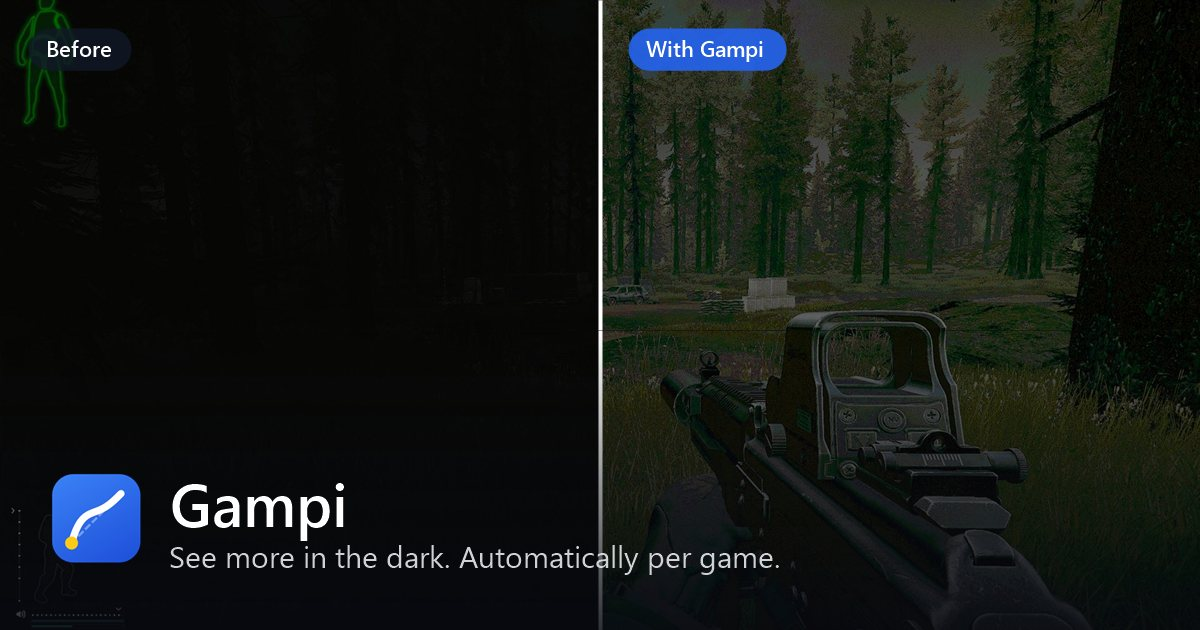
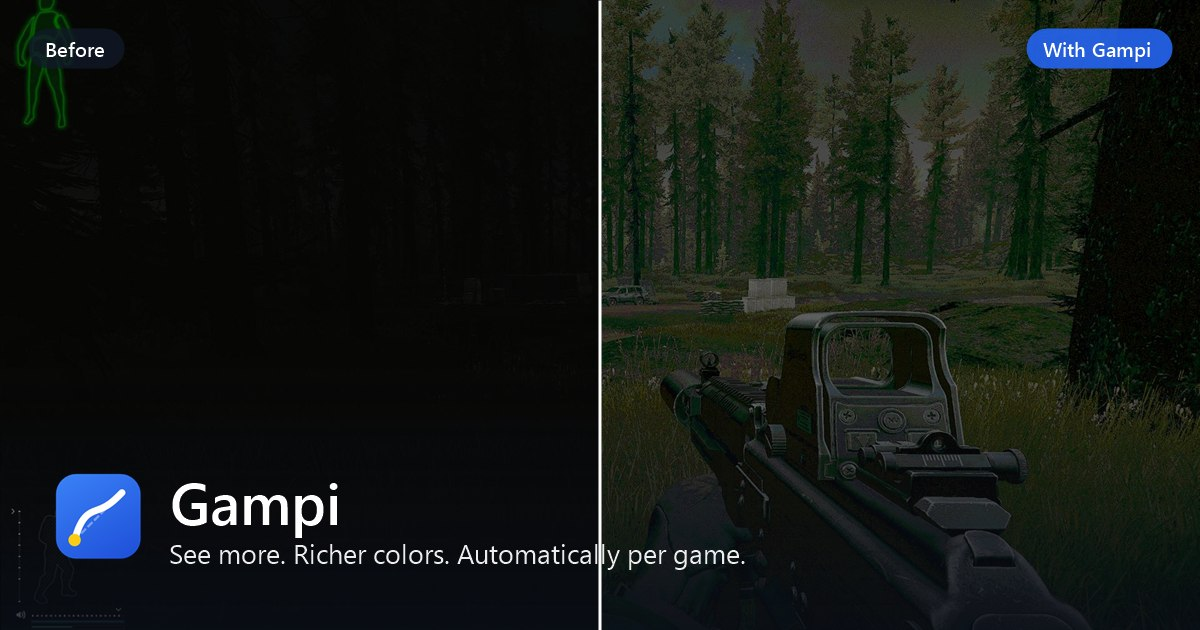
SEO: Sitemap, vollständige Bildadressen fürs Teilen, neues Vorschaubild
sitemap.xml und Verweis in robots.txt; canonical, og:url, og:image/twitter:image mit voller Adresse; ld+json um url, downloadUrl und image ergänzt; og-image.jpg mit aktuellem Slogan.

diff --git a/index.html b/index.html
@@ -13,10 +13,15 @@
   <meta property="og:site_name" content="Gampi">
   <meta property="og:title" content="Gampi – See more. Richer colors. Automatically per game.">
   <meta property="og:description" content="Gampi tunes your monitor's gamma, contrast and colors for each game and switches automatically when the game starts. Free for Windows.">
-  <meta property="og:image" content="assets/img/og-image.jpg">
+  <link rel="canonical" href="https://wussatier.github.io/gampi/">
+  <meta property="og:url" content="https://wussatier.github.io/gampi/">
+  <!-- Vollständige Adresse: Discord, Reddit & Co. laden relative Bildpfade nicht -->
+  <meta property="og:image" content="https://wussatier.github.io/gampi/assets/img/og-image.jpg">
+  <meta property="og:image:alt" content="Gampi – vorher/nachher in Escape from Tarkov / before and after in Escape from Tarkov">
   <meta property="og:image:width" content="1200">
   <meta property="og:image:height" content="630">
   <meta name="twitter:card" content="summary_large_image">
+  <meta name="twitter:image" content="https://wussatier.github.io/gampi/assets/img/og-image.jpg">
 
   <!-- Icons -->
   <link rel="icon" href="favicon.ico" sizes="any">
@@ -38,6 +43,9 @@
     "alternateName": "Gamma Presets Instant",
     "operatingSystem": "Windows 10, Windows 11",
     "applicationCategory": "UtilitiesApplication",
+    "url": "https://wussatier.github.io/gampi/",
+    "downloadUrl": "https://github.com/Wussatier/gampi/releases/latest",
+    "image": "https://wussatier.github.io/gampi/assets/img/og-image.jpg",
     "description": "Per-game gamma, contrast, saturation and shadow boost presets for Windows, switching automatically when a game starts.",
     "offers": { "@type": "Offer", "price": "0", "priceCurrency": "EUR" },
     "author": { "@type": "Person", "name": "Wussa" }
